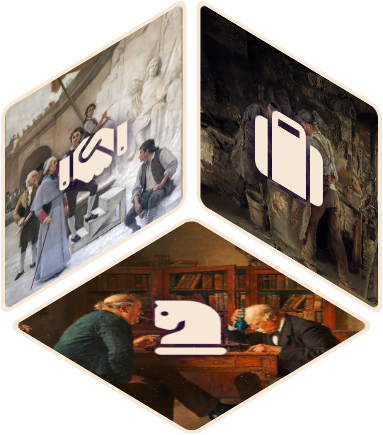
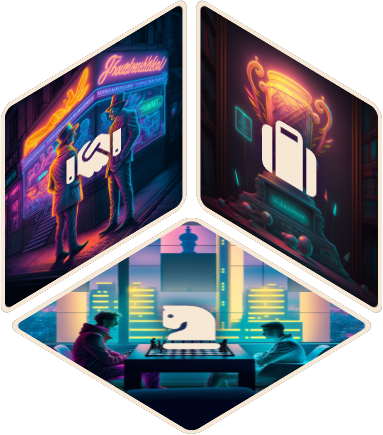
Update image assets

diff --git a/src/components/contentPage/ContentPage.tsx b/src/components/contentPage/ContentPage.tsx
@@ -2,21 +2,21 @@ import React from 'react';
 import './ContentPage.scss';
 import {connect} from 'react-redux';
 import {FontAwesomeIcon} from '@fortawesome/react-fontawesome';
-import {faGroupArrowsRotate, IconDefinition} from '@fortawesome/free-solid-svg-icons';
+import {IconDefinition} from '@fortawesome/free-solid-svg-icons';
 import {Position} from "../../models/common/Position";
 import {CircleMenuStates} from "../../models/landing/CircleMenuStates";
 import {CircleRotationUtils} from "../../utils/CircleRotationUtils";
 import Utils from "../../utils/Utils";
 import TextSection, {TextSectionPosition} from "./TextSection";
-import {ContentData, ContentLabels, MenuContent} from '../../labels/ContentLabels';
+import {ContentData, MenuContent} from '../../labels/ContentLabels';
 import {Page} from "../../models/common/Page";
 import {changePage} from "../../reducers/stages/stagesAction";
-import Flower from "../landing/cube/Flower/Flower";
 
 interface ContentPageProps {
     isClosing: boolean;
     sections: Section[];
     changePage: any;
+    currentPage: Page;
 }
 
 enum RotatingDirection {
@@ -345,10 +345,10 @@ class ContentPage extends React.Component<ContentPageProps, ContentPageState> {
             <div className={`content-outer-circle-sections circle-rot${this.calculateSectionEdgeDegrees(this.state.actualCircleOffsetDegrees)}deg`}>
                 {this.renderSectionEdges()}
             </div>
-            <div className="box">
+            <div className={`box ${this.props.currentPage.toLowerCase()}`}>
                 <div className="box-overlay"></div>
                 <div className={"section-title"}>
-                    <div className={"section-title-top"}>Experience</div>
+                    <div className={"section-title-top"}>{this.props.currentPage === Page.CLIENT_APPROACH ? "Client approach" : "Experience"}</div>
                     <div className={"section-title-bottom"}>{this.state.menuContent.title}</div>
                 </div>
             </div>
@@ -365,10 +365,12 @@ class ContentPage extends React.Component<ContentPageProps, ContentPageState> {
 export default connect(
     (state: any, ownProps) => {
         const { cubeOpened, selectedMenu } = state.cubesReducer;
+        const { currentPage } = state.stagesReducer;
         return {
             ...ownProps,
             selectedMenu,
-            cubeOpened
+            cubeOpened,
+            currentPage
         }
     }
 , { changePage })(ContentPage);

diff --git a/src/components/contentPage/ContentPage.scss b/src/components/contentPage/ContentPage.scss
@@ -45,7 +45,7 @@ $menu-radius: 6em;
   &.slow-rotation {
     .box {
       .box-overlay {
-        transition: opacity .66s;
+        transition: opacity .25s;
         opacity: .66;
       }
     }
@@ -231,13 +231,17 @@ $menu-radius: 6em;
     top: calc(50% - $inner-radius-landscape / 2);
     left: calc(50% - $inner-radius-landscape / 2);
     border-radius: 50%;
-    background-image: url("../../../public/walls/clientFinal.jpg");
+    background-image: url("../../../public/categoryImages/experience/home.png");
     background-size: cover;
     border: 0.2em solid $light-yellow;
     text-align: center;
     z-index: 2;
     overflow: hidden;
     pointer-events: none;
+
+    &.client_approach {
+      background-image: url("../../../public/categoryImages/client/home.png");
+    }
 
     .vw-portrait & {
       height: $inner-radius-portrait;
@@ -285,6 +289,7 @@ $menu-radius: 6em;
       user-select: none;
       font-size: 2em;
       color: $light-yellow;
+      text-shadow: 0 0 5px #20073a;
       line-height: 1.5em;
       position: absolute;
       top: calc(50% - 1.5em);
@@ -298,8 +303,8 @@ $menu-radius: 6em;
 
       .section-title-bottom {
         font-weight: bold;
-        // text-shadow: -2px 0 $light-yellow, 0 2px $light-yellow, 2px 0 $light-yellow, 0 -2px $light-yellow;
-        color: $dark-orange;
+        text-shadow: 0 0 5px #20073a;
+        color: $yellow;
       }
     }
   }

diff --git a/src/components/landing/cube/CubeWall.scss b/src/components/landing/cube/CubeWall.scss
@@ -138,8 +138,8 @@
             .wall-icon {
                 transition: opacity 1s;
                 opacity: 1;
-                width: 5em;
-                height: 5em;
+                width: 4em;
+                height: 4em;
                 background-size: cover;
                 background-position: center;
                 color: $light-yellow;
@@ -151,7 +151,7 @@
             transform: rotateX(-90deg) translateZ(6.7em);
 
             .wall-content {
-                background-image: url("../../../../public/walls/chessFinal.jpg");
+                background-image: url("../../../../public/categoryImages/chess/home.png");
                 .wall-icon {
                     transform: rotate(45deg);
                 }
@@ -162,7 +162,7 @@
             transform: translateZ(6.7em);
 
             .wall-content {
-                background-image: url("../../../../public/walls/clientFinal.jpg");
+                background-image: url("../../../../public/categoryImages/client/home.png");
             }
         }
 
@@ -170,7 +170,7 @@
             transform: rotateY(90deg) translateZ(6.7em);
 
             .wall-content {
-                background-image: url("../../../../public/walls/experienceFinal.jpg");
+                background-image: url("../../../../public/categoryImages/experience/home.png");
             }
         }
 

diff --git a/src/components/chess/ChessBoard/ChessConfigurator/ConfiguratorSection.scss b/src/components/chess/ChessBoard/ChessConfigurator/ConfiguratorSection.scss
@@ -48,22 +48,22 @@
     }
 
     &.setting-easy {
-      background-image: url("../../../../../public/chessAvatars/easy.jpg");
+      background-image: url("../../../../../public/categoryImages/chess/easy.jpg");
     }
     &.setting-medium {
-      background-image: url("../../../../../public/chessAvatars/medium.jpg");
+      background-image: url("../../../../../public/categoryImages/chess/medium.jpg");
     }
     &.setting-hard {
-      background-image: url("../../../../../public/chessAvatars/hard.jpg");
+      background-image: url("../../../../../public/categoryImages/chess/hard.jpg");
     }
     &.setting-white {
-      background-image: url("../../../../../public/chessAvatars/white.jpg");
+      background-image: url("../../../../../public/categoryImages/chess/white.jpg");
     }
     &.setting-random {
-      background-image: url("../../../../../public/chessAvatars/color.jpg");
+      background-image: url("../../../../../public/categoryImages/chess/color.jpg");
     }
     &.setting-black {
-      background-image: url("../../../../../public/chessAvatars/black.jpg");
+      background-image: url("../../../../../public/categoryImages/chess/black.jpg");
     }
   }
 }

diff --git a/src/components/chess/ChessBoard/ChessBoardPlayers.scss b/src/components/chess/ChessBoard/ChessBoardPlayers.scss
@@ -32,22 +32,22 @@
     }
 
     &.avatar-easy {
-      background-image: url("../../../../public/chessAvatars/easy.jpg");
+      background-image: url("../../../../public/categoryImages/chess/easy.jpg");
     }
     &.avatar-medium {
-      background-image: url("../../../../public/chessAvatars/medium.jpg");
+      background-image: url("../../../../public/categoryImages/chess/medium.jpg");
     }
     &.avatar-hard {
-      background-image: url("../../../../public/chessAvatars/hard.jpg");
+      background-image: url("../../../../public/categoryImages/chess/hard.jpg");
     }
     &.avatar-white {
-      background-image: url("../../../../public/chessAvatars/white.jpg");
+      background-image: url("../../../../public/categoryImages/chess/white.jpg");
     }
     &.avatar-random {
-      background-image: url("../../../../public/chessAvatars/color.jpg");
+      background-image: url("../../../../public/categoryImages/chess/color.jpg");
     }
     &.avatar-black {
-      background-image: url("../../../../public/chessAvatars/black.jpg");
+      background-image: url("../../../../public/categoryImages/chess/black.jpg");
     }
   }
 

diff --git a/src/components/contentPage/TextSection.scss b/src/components/contentPage/TextSection.scss
@@ -205,22 +205,23 @@ $menu-radius: 6em;
     }
 
     .mask-dve {
-      background-image: url("../../../public/walls/clientFinal.jpg");
+      background-image: url("../../../public/categoryImages/experience/home.png");
       background-size: cover;
       background-repeat: no-repeat;
 
       .vw-landscape & {
         width: 13em;
         height: 100%;
-        opacity: 0.66;
-        filter: sepia(0.33);
+        opacity: 0.33;
+        filter: sepia(1);
       }
 
       .vw-portrait & {
         position: absolute;
         width: 100%;
         height: 13em;
-        filter: sepia(0.66) saturate(0.66);
+        opacity: 0.33;
+        filter: sepia(1);
       }
     }
 

diff --git a/src/components/core/ContentManager.tsx b/src/components/core/ContentManager.tsx
@@ -32,8 +32,8 @@ interface ContentManagerState {
 
 
 class ContentManager extends React.Component<ContentManagerProps, ContentManagerState> {
-    private readonly PAGE_CLOSING_TIME_MS = 1500;
-    private readonly NEW_PAGE_DELAY_MS = 1000;
+    private readonly PAGE_CLOSING_TIME_MS = 0;
+    private readonly NEW_PAGE_DELAY_MS = 0;
     private readonly resizeListener = (event) => {
         this.updateWindowClasses(event.target);
     };
